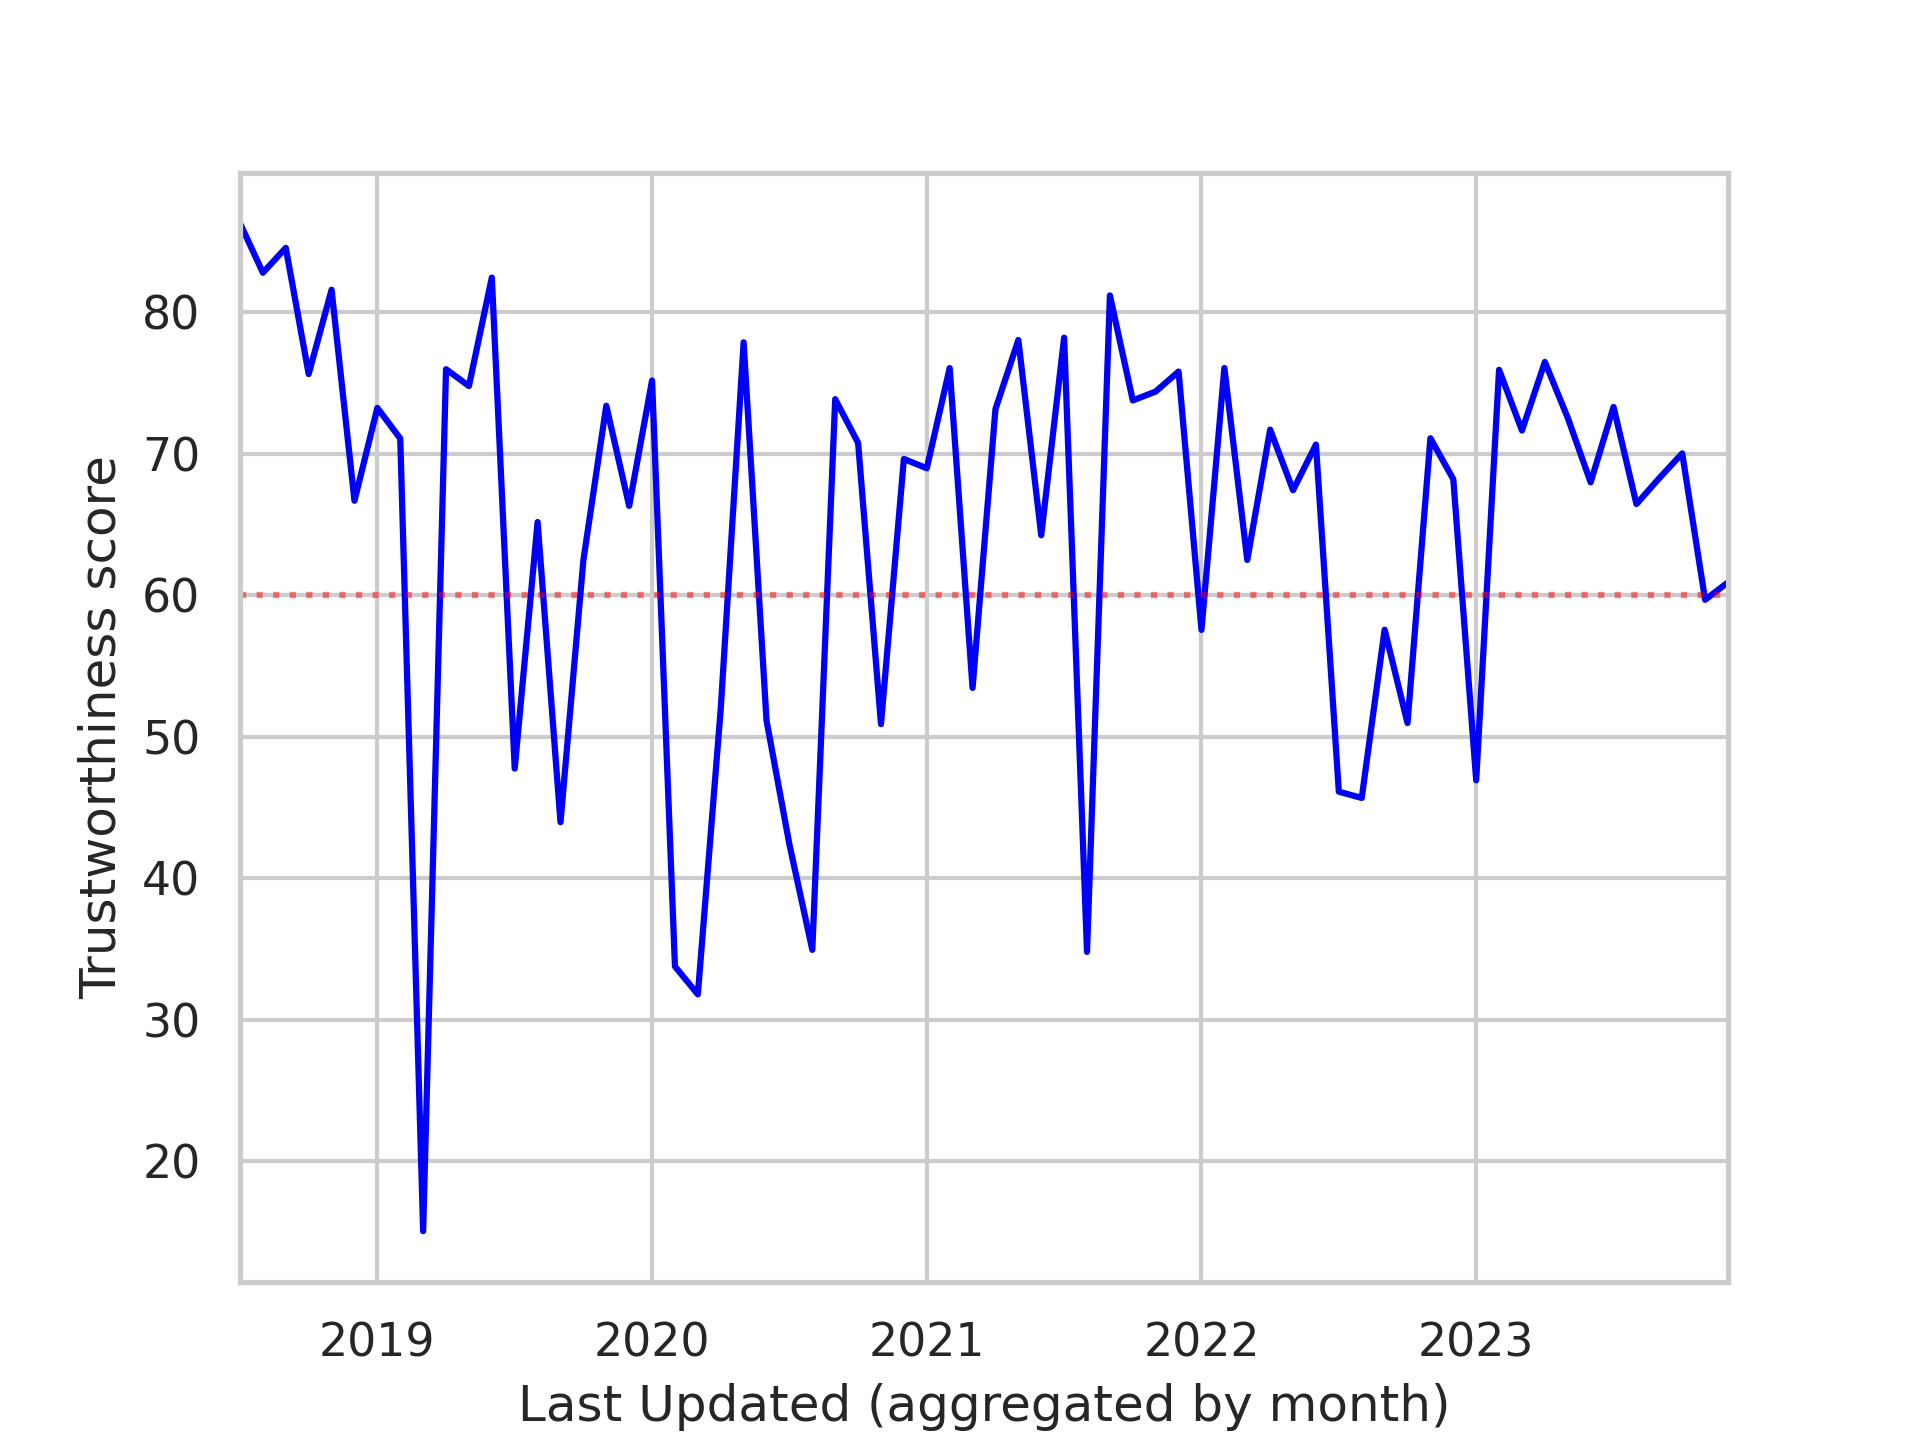
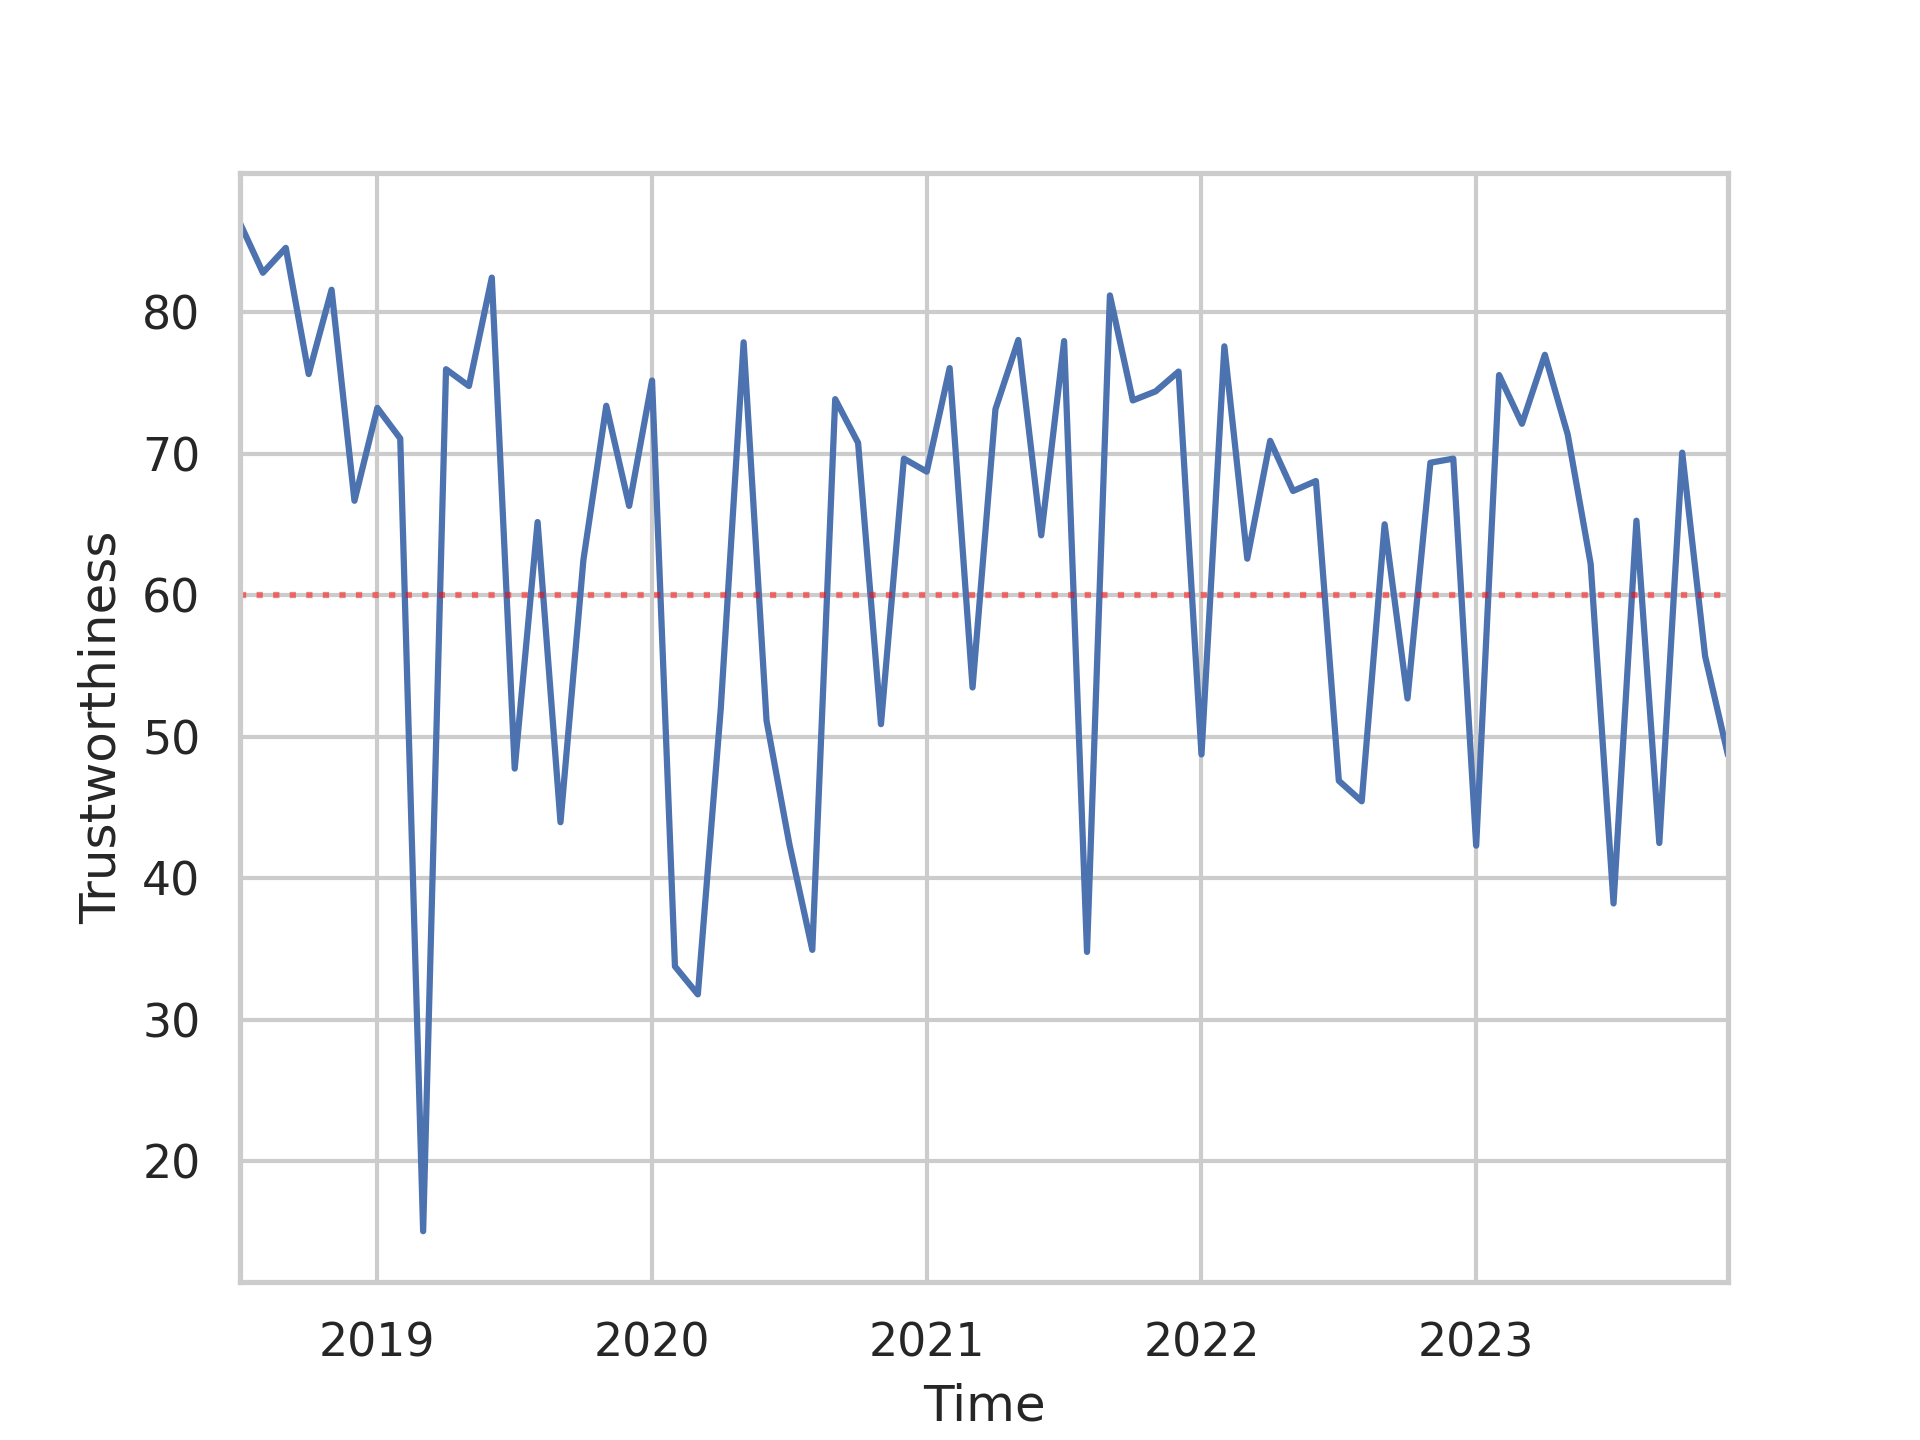
changed to most recent df

diff --git a/tables/countries_language.tex b/tables/countries_language.tex
@@ -6,19 +6,18 @@
 \toprule
 Country & Language &    n &    \% \\
 \midrule
-     US &       en & 7996 & 76.00 \\
-    ALL &       en & 1451 & 13.79 \\
-     GB &       en &  621 &  5.90 \\
-     IT &       it &  526 &  5.00 \\
-     FR &       fr &  431 &  4.10 \\
-     CA &       en &  421 &  4.00 \\
-     DE &       de &  375 &  3.56 \\
-     AU &       en &  140 &  1.33 \\
-     CA &       fr &   45 &  0.43 \\
-     AT &       de &   40 &  0.38 \\
-     NZ &       en &   21 &  0.20 \\
-     US &       es &    1 &  0.01 \\
+     US &       en & 6286 & 65.77 \\
+    ALL &       en & 1136 & 11.89 \\
+     GB &       en &  470 &  4.92 \\
+     IT &       it &  459 &  4.80 \\
+     CA &       en &  391 &  4.09 \\
+     FR &       fr &  308 &  3.22 \\
+     DE &       de &  292 &  3.06 \\
+     AU &       en &  116 &  1.21 \\
+     CA &       fr &   44 &  0.46 \\
+     AT &       de &   38 &  0.40 \\
+     NZ &       en &   18 &  0.19 \\
 \bottomrule
-\textit{Note.} We counted unique domains across all versions of the database.
+\textit{Note.} As of December 15th, 2023.
 \end{tabularx}
 \end{table}

diff --git a/tables/t2_countries.tex b/tables/t2_countries.tex
@@ -1,0 +1,22 @@
+\begin{table}[H]
+\centering
+\caption{\textbf{Country Descriptives.}}
+\label{table:table2}
+\begin{tabularx}{\textwidth}{ X c c c c }
+\toprule
+Country &       n (\%) & Trustworthiness (SD) &  Updates \\
+\midrule
+     US & 6286 (65.77) &        59.08 (33.81) & 262 days \\
+     NZ &    18 (0.19) &        80.28 (21.66) & 235 days \\
+     IT &    459 (4.8) &        74.09 (21.43) & 310 days \\
+     GB &   470 (4.92) &        83.86 (17.31) & 245 days \\
+     FR &   308 (3.22) &        70.65 (26.15) & 391 days \\
+     DE &   292 (3.06) &        79.92 (29.11) & 399 days \\
+     CA &   435 (4.55) &        88.81 (13.79) & 303 days \\
+     AU &   116 (1.21) &        73.59 (24.83) & 299 days \\
+     AT &     38 (0.4) &        71.92 (30.01) & 269 days \\
+    ALL & 1136 (11.89) &         74.8 (25.29) & 357 days \\
+\bottomrule
+\multicolumn{3}{l}{\textit{Note.} As of December 15th, 2023. Sorted by size.}
+\end{tabularx}
+\end{table}
